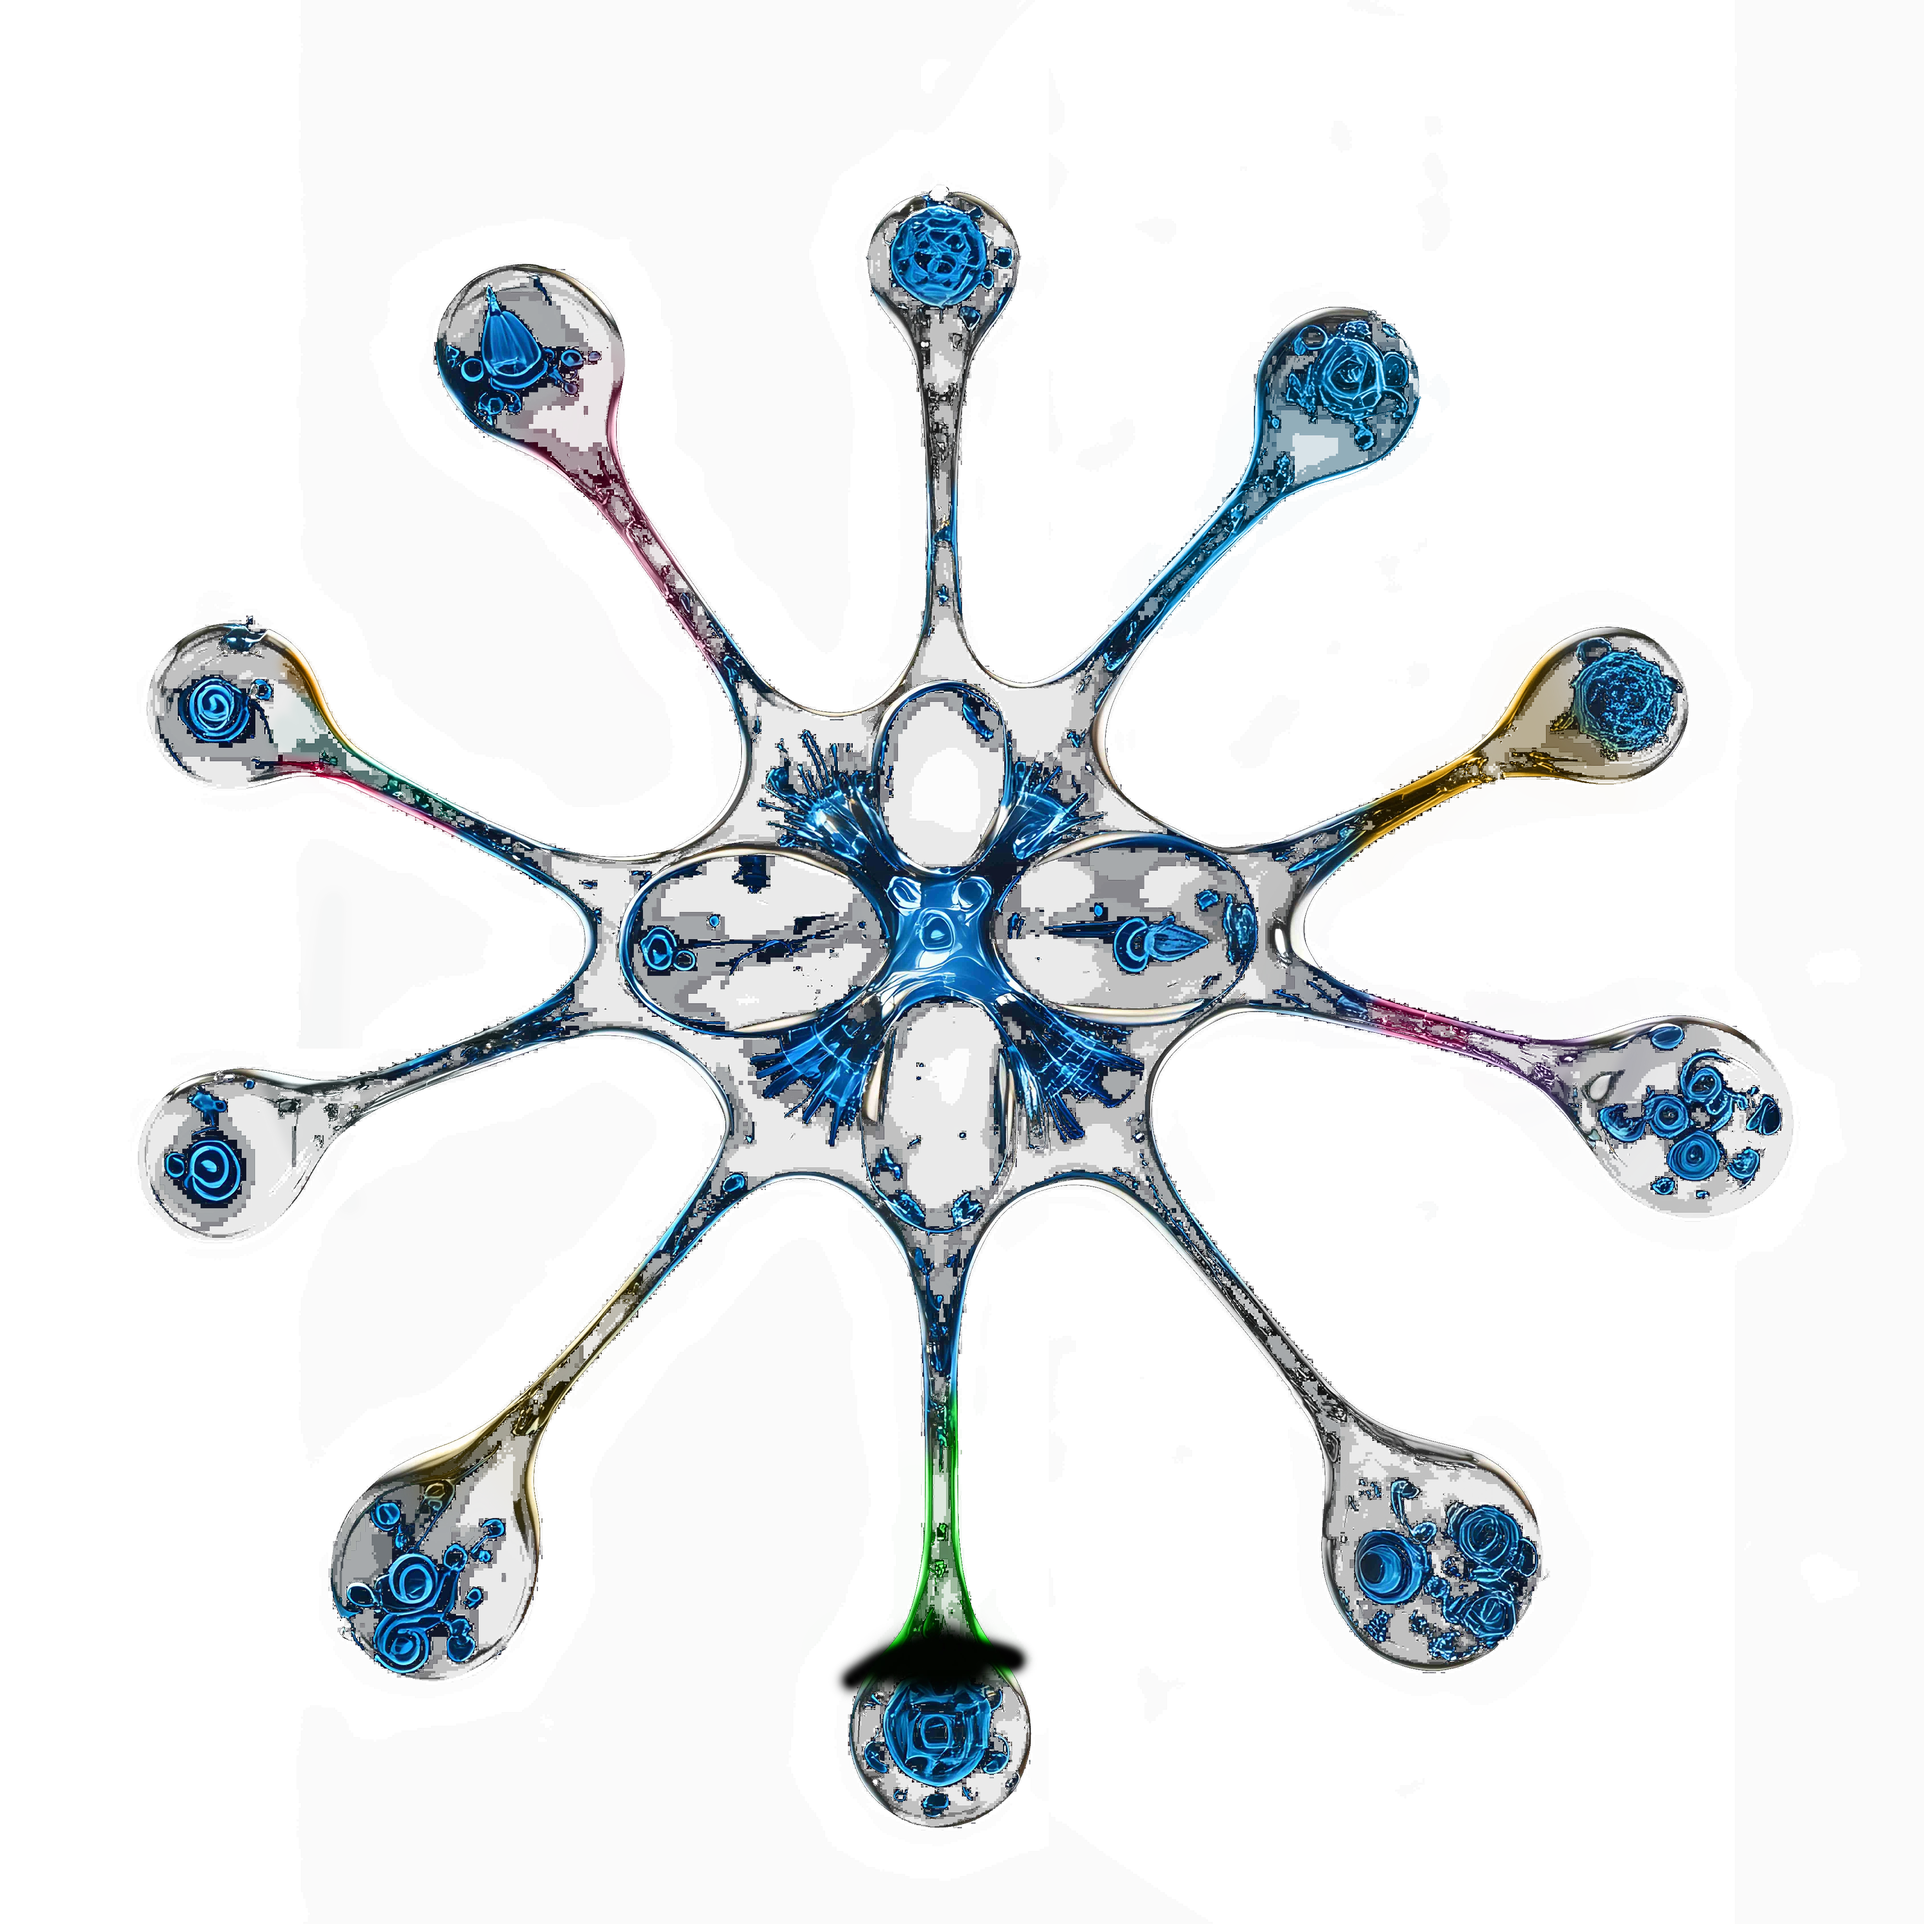
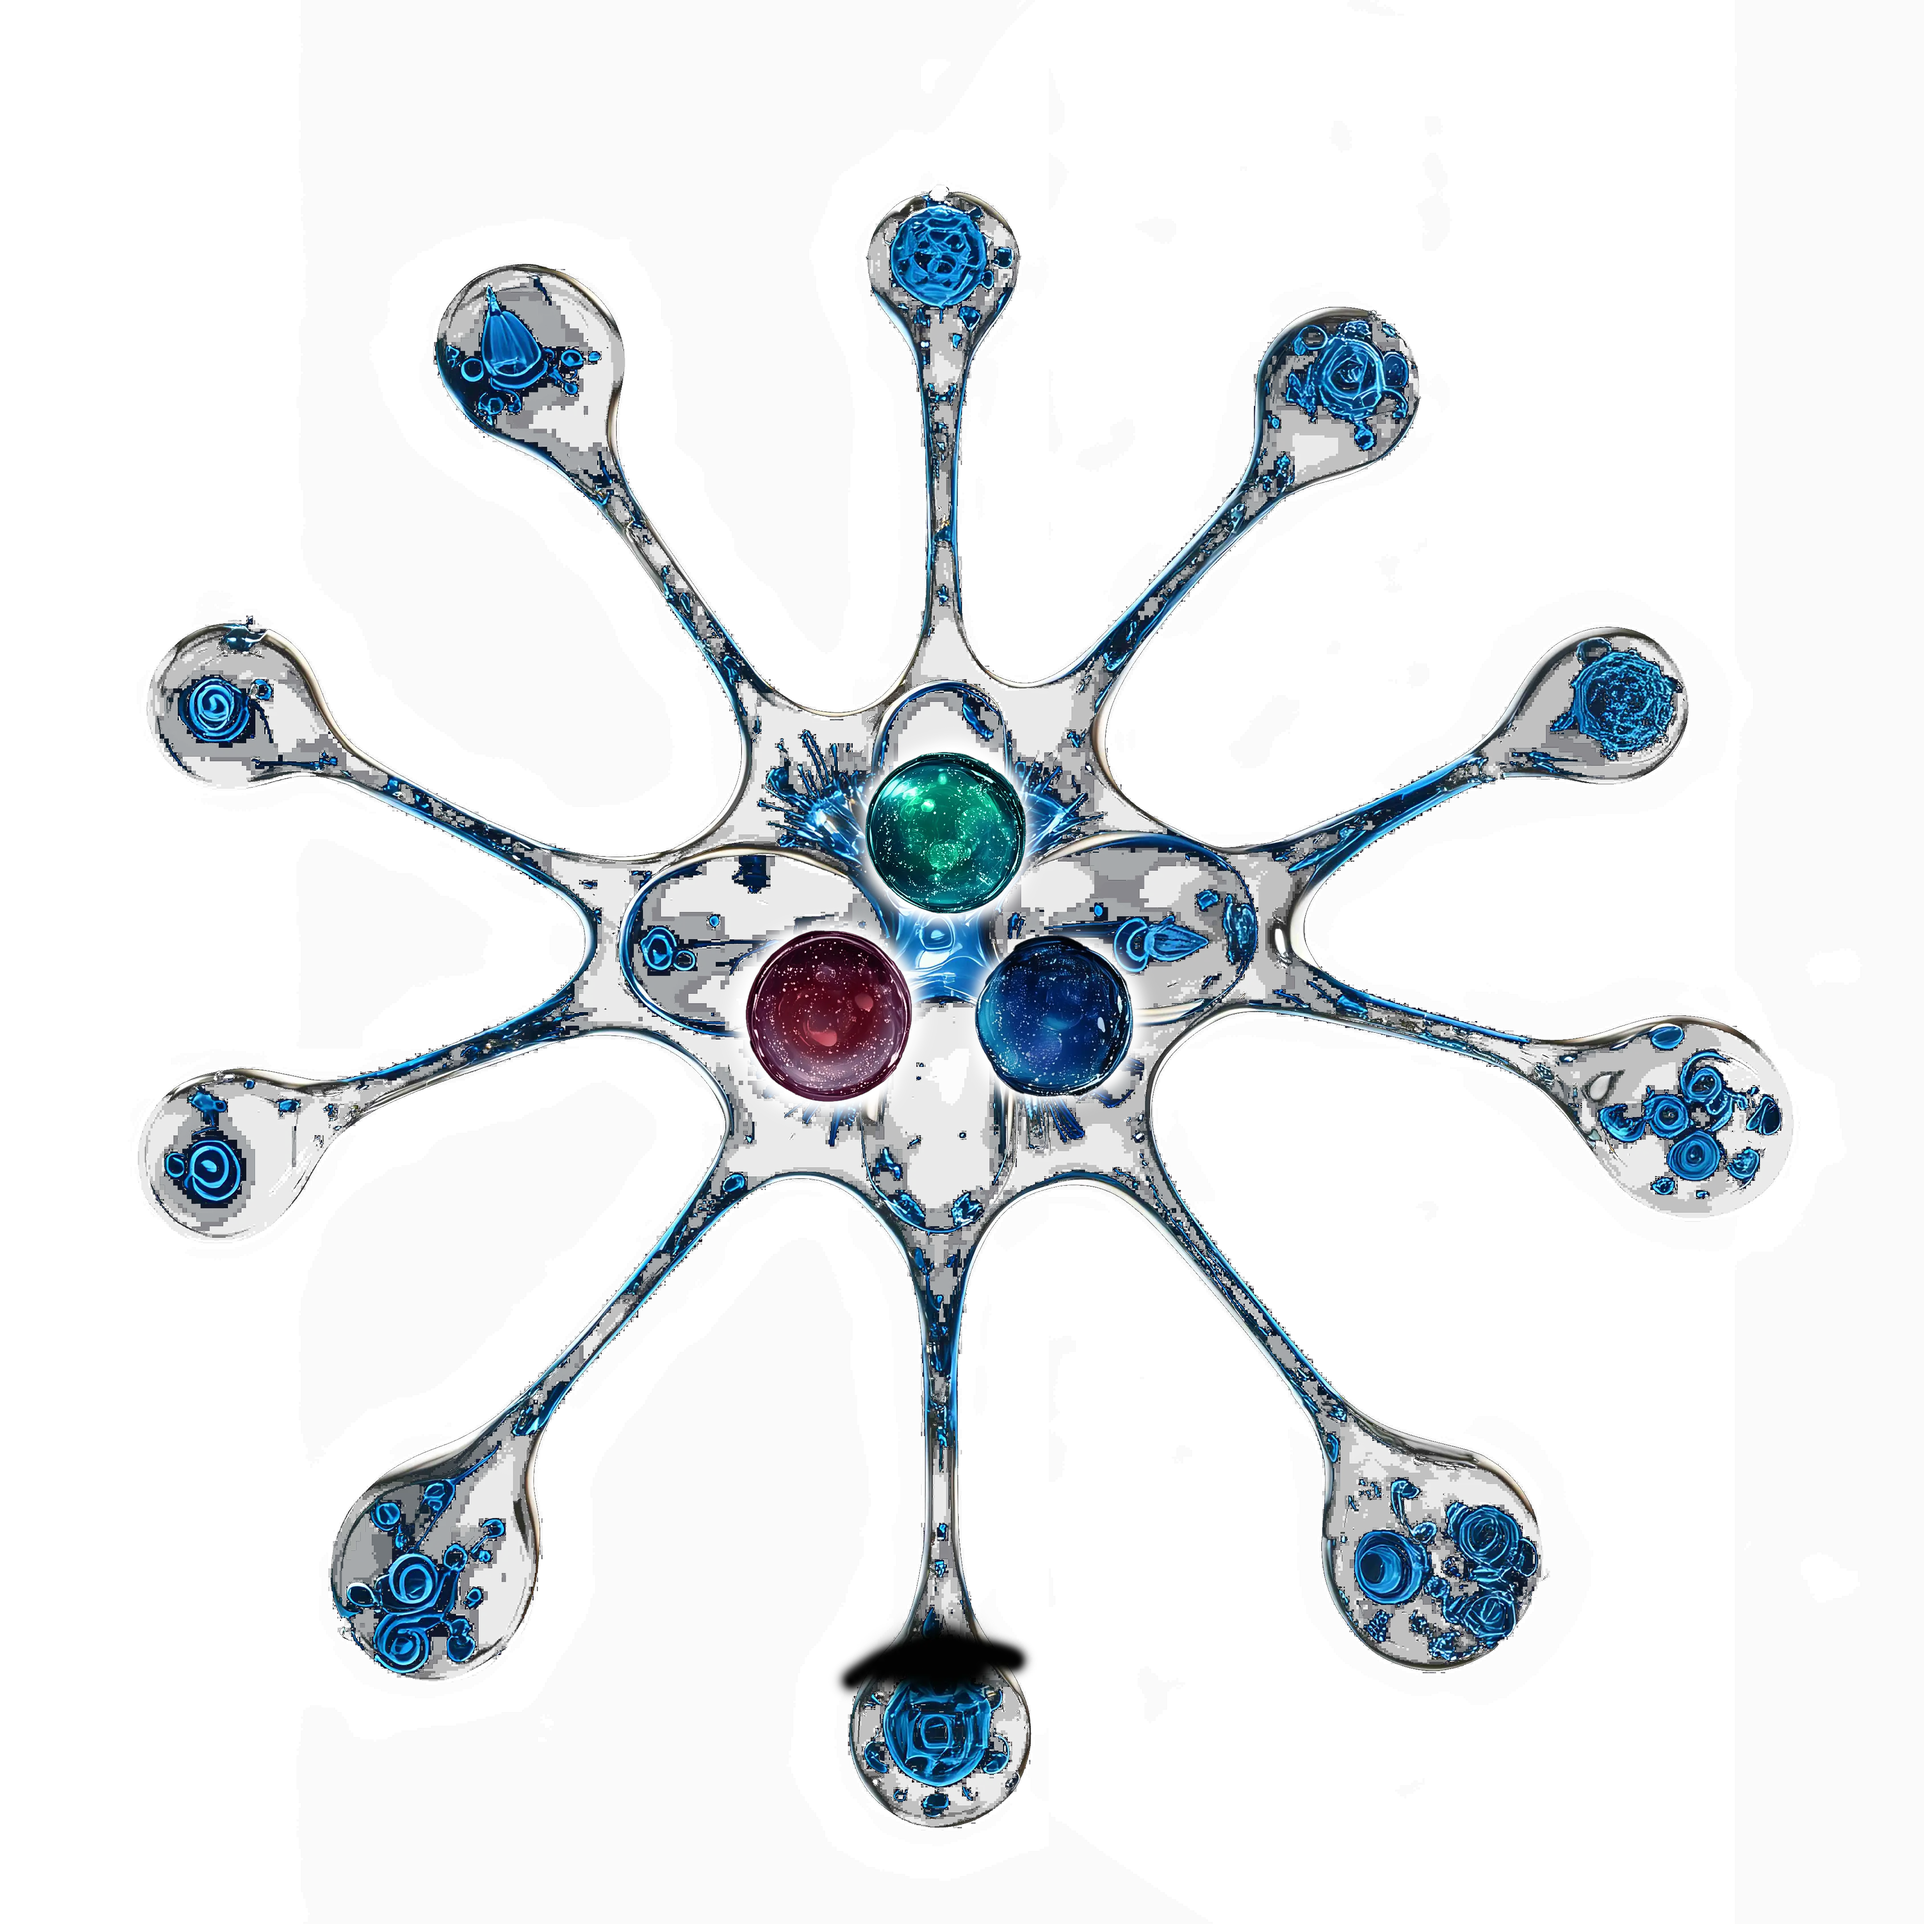
fix event spheres

diff --git a/src/pages/event-page/model/data.ts b/src/pages/event-page/model/data.ts
@@ -270,7 +270,7 @@ export const worlds: WorldSphereInterface[] = [
         imagePosition: {
             scale: "1.5",
             transform:
-                "translate(-50%, -50%) rotate(calc(var(--i) * 36deg + 14deg)) translate(28.5vh) rotate(calc(var(--i) * -36deg - 14deg))",
+                "translate(-50%, -50%) rotate(calc(var(--i) * 36deg + 17deg)) translate(28.5vh) rotate(calc(var(--i) * -36deg - 17deg))",
         },
     },
     {
@@ -284,7 +284,7 @@ export const worlds: WorldSphereInterface[] = [
         imagePosition: {
             scale: "1.1",
             transform:
-                "translate(-50%, -50%) rotate(calc(var(--i) * 36deg + 19deg)) translate(43vh) rotate(calc(var(--i) * -36deg - 19deg))",
+                "translate(-50%, -50%) rotate(calc(var(--i) * 36deg + 19.5deg)) translate(42vh) rotate(calc(var(--i) * -36deg - 19.5deg))",
         },
     },
     {
@@ -298,7 +298,7 @@ export const worlds: WorldSphereInterface[] = [
         imagePosition: {
             scale: "1.3",
             transform:
-                "translate(-50%, -50%) rotate(calc(var(--i) * 36deg + 19deg)) translate(35vh) rotate(calc(var(--i) * -36deg - 19deg))",
+                "translate(-50%, -50%) rotate(calc(var(--i) * 36deg + 20deg)) translate(33vh) rotate(calc(var(--i) * -36deg - 20deg))",
         },
     },
     {
@@ -312,7 +312,7 @@ export const worlds: WorldSphereInterface[] = [
         imagePosition: {
             scale: "1.4",
             transform:
-                "translate(-50%, -50%) rotate(calc(var(--i) * 36deg + 22deg)) translate(29.5vh) rotate(calc(var(--i) * -36deg - 22deg))",
+                "translate(-50%, -50%) rotate(calc(var(--i) * 36deg + 20deg)) translate(29.5vh) rotate(calc(var(--i) * -36deg - 20deg))",
         },
     },
     {
@@ -326,7 +326,7 @@ export const worlds: WorldSphereInterface[] = [
         imagePosition: {
             scale: "1.3",
             transform:
-                "translate(-50%, -50%) rotate(calc(var(--i) * 36deg + 18deg)) translate(37vh) rotate(calc(var(--i) * -36deg - 18deg))",
+                "translate(-50%, -50%) rotate(calc(var(--i) * 36deg + 18deg)) translate(35vh) rotate(calc(var(--i) * -36deg - 18deg))",
         },
     },
     {
@@ -340,7 +340,7 @@ export const worlds: WorldSphereInterface[] = [
         imagePosition: {
             scale: "1.4",
             transform:
-                "translate(-50%, -50%) rotate(calc(var(--i) * 36deg + 14deg)) translate(37vh) rotate(calc(var(--i) * -36deg - 14deg))",
+                "translate(-50%, -50%) rotate(calc(var(--i) * 36deg + 14deg)) translate(35vh) rotate(calc(var(--i) * -36deg - 14deg))",
         },
     },
     {
@@ -355,7 +355,7 @@ export const worlds: WorldSphereInterface[] = [
         imagePosition: {
             scale: "1.4",
             transform:
-                "translate(-50%, -50%) rotate(calc(var(--i) * 36deg + 15deg)) translate(38vh) rotate(calc(var(--i) * -36deg - 15deg))",
+                "translate(-50%, -50%) rotate(calc(var(--i) * 36deg + 16deg)) translate(36vh) rotate(calc(var(--i) * -36deg - 16deg))",
         },
     },
     {
@@ -370,7 +370,7 @@ export const worlds: WorldSphereInterface[] = [
         imagePosition: {
             scale: "1.3",
             transform:
-                "translate(-50%, -50%) rotate(calc(var(--i) * 36deg + 16deg)) translate(40vh) rotate(calc(var(--i) * -36deg - 16deg))",
+                "translate(-50%, -50%) rotate(calc(var(--i) * 36deg + 17deg)) translate(40vh) rotate(calc(var(--i) * -36deg - 17deg))",
         },
     },
     {
@@ -384,7 +384,7 @@ export const worlds: WorldSphereInterface[] = [
         imagePosition: {
             scale: "1.3",
             transform:
-                "translate(-50%, -50%) rotate(calc(var(--i) * 36deg + 20deg)) translate(40vh) rotate(calc(var(--i) * -36deg - 20deg))",
+                "translate(-50%, -50%) rotate(calc(var(--i) * 36deg + 20deg)) translate(39vh) rotate(calc(var(--i) * -36deg - 20deg))",
         },
     },
     {
@@ -398,7 +398,7 @@ export const worlds: WorldSphereInterface[] = [
         imagePosition: {
             scale: "1.2",
             transform:
-                "translate(-50%, -50%) rotate(calc(var(--i) * 36deg + 19deg)) translate(41vh) rotate(calc(var(--i) * -36deg - 19deg))",
+                "translate(-50%, -50%) rotate(calc(var(--i) * 36deg + 20deg)) translate(40vh) rotate(calc(var(--i) * -36deg - 20deg))",
         },
     },
 ];
